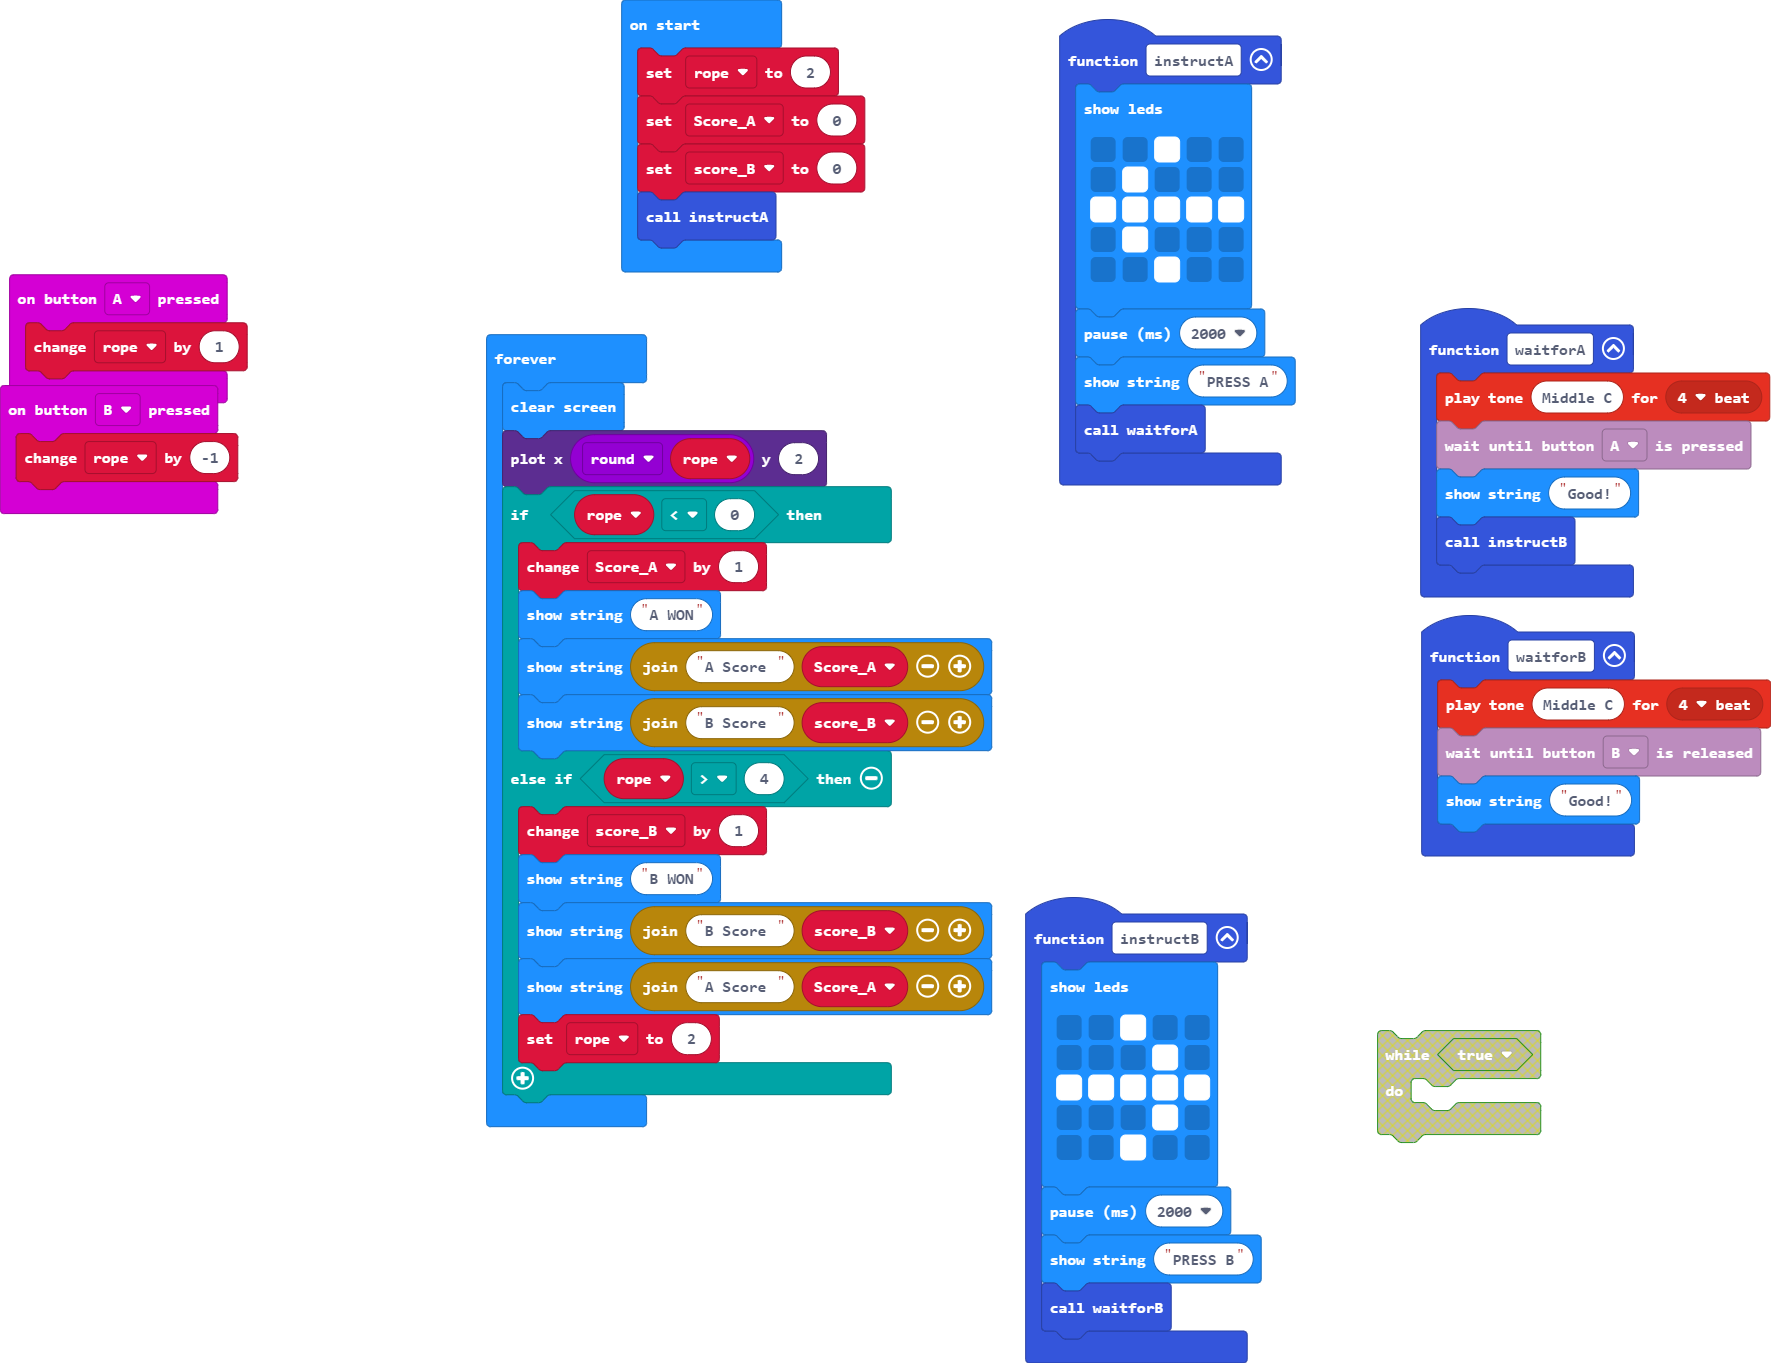
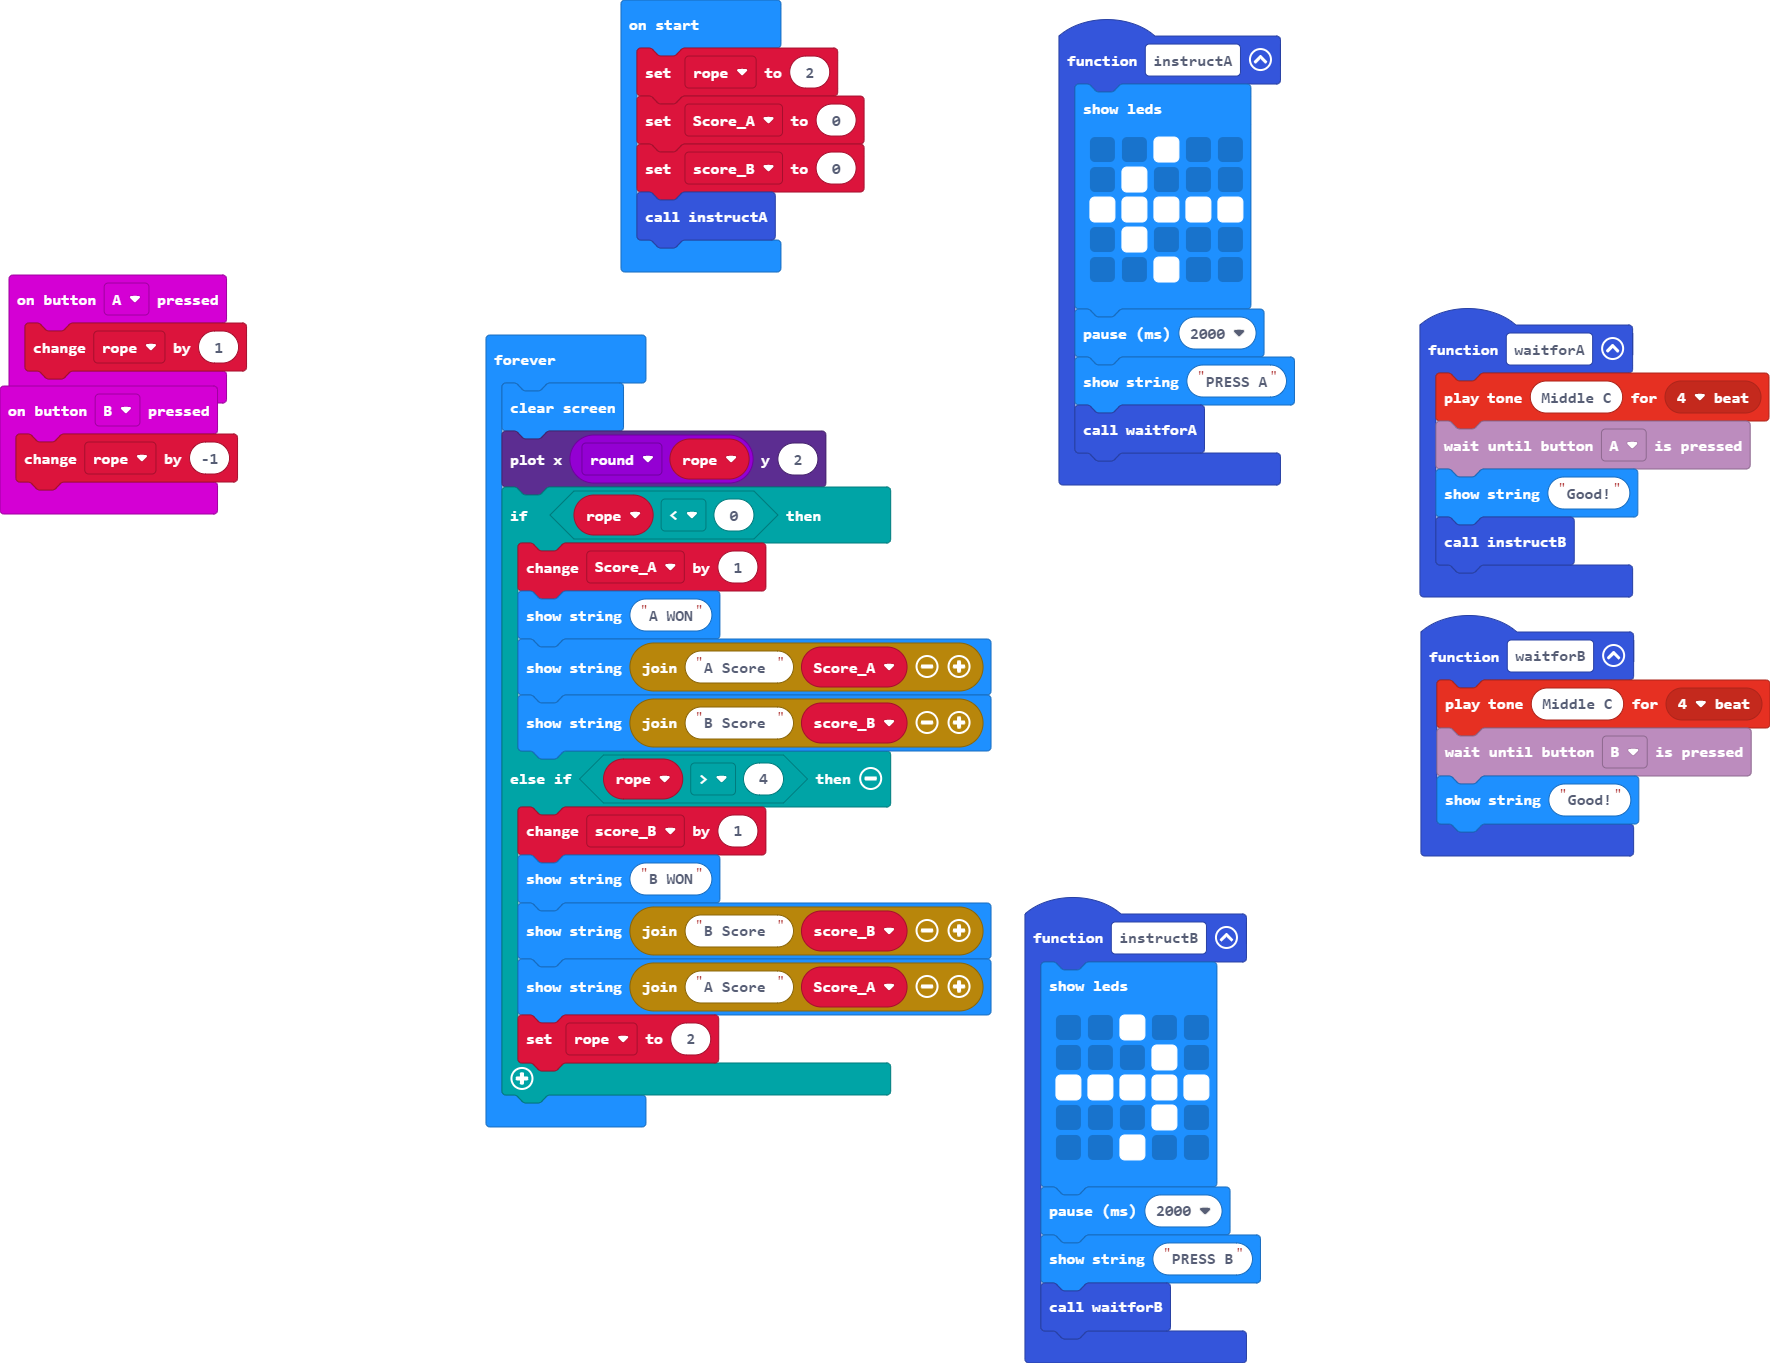
B works now

diff --git a/main.ts b/main.ts
@@ -16,7 +16,7 @@ function instructA () {
 }
 function waitforB () {
     music.playTone(262, music.beat(BeatFraction.Breve))
-    WaitUntilBlocks.waitUntilButtonReleased(Button.B)
+    WaitUntilBlocks.waitUntilButtonPressed(Button.B)
     basic.showString("Good!")
 }
 input.onButtonPressed(Button.A, function () {
